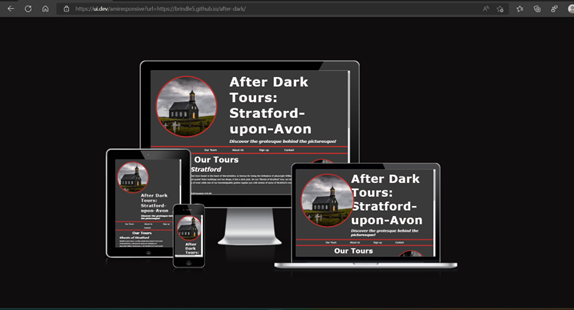
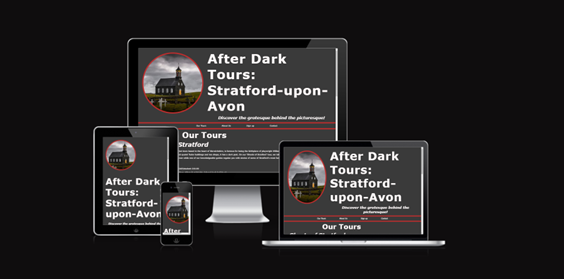
Update responsive design screenshot in readme file.

diff --git a/assets/css/style.css b/assets/css/style.css
@@ -27,16 +27,17 @@ html {
     margin: 2em;
 }
 
-#left-header-image, .width-setting {
-    width: 55%;
-}
+#left-header-image, .width-setting { 
+    width: 55%; 
+} 
 
 #heading {
     font-weight: 700;
     letter-spacing: 0.2rem;
-    font-size: 6.5rem;
+    font-size: 7vw;
     padding-top: 1rem;
     padding-bottom: 1rem;   
+    padding-left: 1rem;
 }
 
 body {
@@ -65,7 +66,7 @@ nav {
 nav > ul > li {       
     color: snow;  
     display: inline-block;  
-    font-size: 1rem;
+    font-size: 1.5rem;
     padding: 0.6rem 3.75rem;
 }
 
@@ -108,10 +109,6 @@ nav > ul > li a:hover {
     line-height: 0.75cm;
 }
 
-.width-setting {
-    width: 30%;
-}
-
 #murder-image {
     height: 17.1875rem;
     width: 17.1875rem;
@@ -151,7 +148,7 @@ nav > ul > li a:hover {
     border-radius: 50%;
     border: #BE2D2D solid 0.4375rem;
     background: url('../images/scary_faces.jpg') no-repeat center center;
-    margin: 2em;
+    padding-right: 1rem;
 }   
 
 #team-background {
@@ -176,7 +173,7 @@ nav > ul > li a:hover {
 
 #sign-up-form {     
    padding-bottom: 0.9rem;
-   padding-left: 3rem;
+   padding-left: 1rem;
 }
 
 #sign-up-heading {
@@ -260,7 +257,7 @@ footer > ul {
 
 @media only screen and (max-width: 1024px) and (min-width: 769px) {   
     
-     #left-header-image { 
+    #left-header-image { 
         height: 15rem;
         width: 15rem 
     }
@@ -295,7 +292,7 @@ footer > ul {
     #ghost-image {
         height: 14rem;
         width: 14rem;
-        /* margin: 2em; */
+        margin: 2em; 
     }
 
     #murder-image {

diff --git a/index.html b/index.html
@@ -82,10 +82,8 @@
         <div class="display-settings">
             <div id="murder-tour-info">
                  <h3 id="murder-stratford"><em>Murder and Mayhem</em></h3>
-
-                 <div class="width-setting">
-                    <div id="murder-image"></div>
-                    </div>
+                 
+                    <div id="murder-image"></div>                   
                     
                     <p id="murder-stratford-info">Stratford-upon-Avon has seen its fair share of murders, maimings, and grisly
                     events. On this
@@ -141,10 +139,9 @@
 
     <section>
         <div class="display-settings">
-        <div class="width-setting">  <div id= "sign-up-image" ></div></div>        
         
-        <!-- <img src="../images/skull_on_books.jpg" alt="skull on books" id="sign-up-image">  -->
-
+            <div id= "sign-up-image" ></div>
+        
         <div id="sign-up-form">
 
             <h2 id="sign-up-heading">Sign up for a tour</h2>
